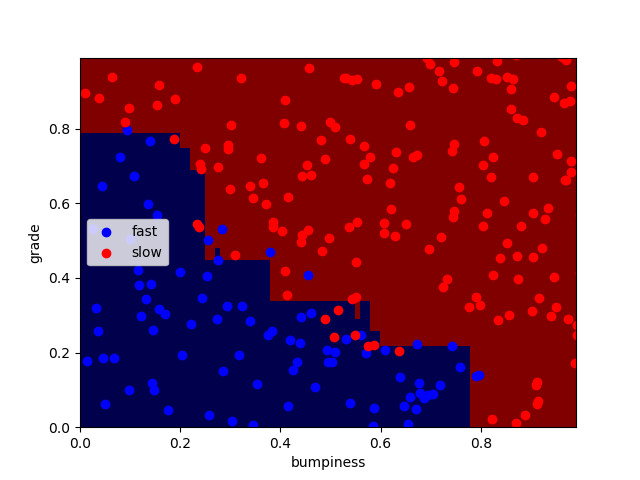
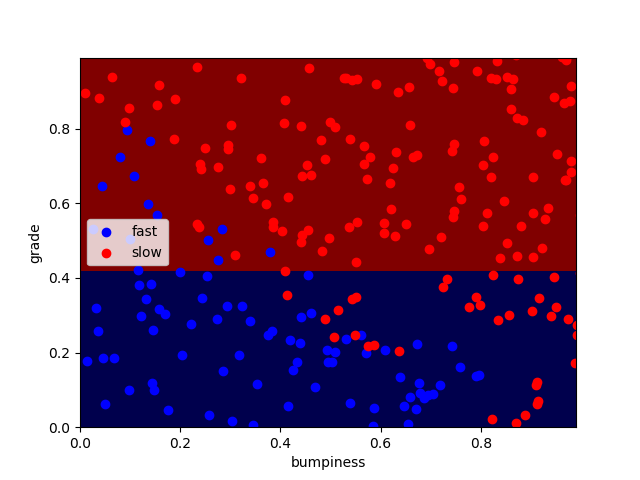
Changes made

Changed region(s): [[0.125, 0.25, 0.9062, 0.9062]]

diff --git a/choose_your_own/your_algorithm.py b/choose_your_own/your_algorithm.py
@@ -18,6 +18,18 @@ grade_slow = [features_train[ii][0] for ii in range(0, len(features_train)) if l
 bumpy_slow = [features_train[ii][1] for ii in range(0, len(features_train)) if labels_train[ii]==1]
 
 
+### your code here!  name your classifier object clf if you want the 
+### visualization code (prettyPicture) to show you the decision boundary
+
+clf=AdaBoostClassifier(learning_rate=10)
+t0= time()
+clf.fit(features_train,labels_train)
+print "training time:", round(time()-t0,3),"s"
+t1=time()
+pred=clf.predict(features_test)
+print "testing time:", round(time()-t1,3),"s"
+print 'accuracy= ', accuracy_score(pred, labels_test)
+########################################################
 #### initial visualization
 plt.xlim(0.0, 1.0)
 plt.ylim(0.0, 1.0)
@@ -30,24 +42,19 @@ plt.show()
 ################################################################################
 
 
-### your code here!  name your classifier object clf if you want the 
-### visualization code (prettyPicture) to show you the decision boundary
-
-
-clf=AdaBoostClassifier()
-t0= time()
-clf.fit(features_train,labels_train)
-print "training time:", round(time()-t0,3),"s"
-t1=time()
-pred=clf.predict(features_test)
-print "testing time:", round(time()-t1,3),"s"
-print 'accuracy= ', accuracy_score(pred, labels_test)
 
 
 
 
+
+
+
+'''
 
 try:
     prettyPicture(clf, features_test, labels_test)
 except NameError:
+    print "Problems"
     pass
+
+'''
